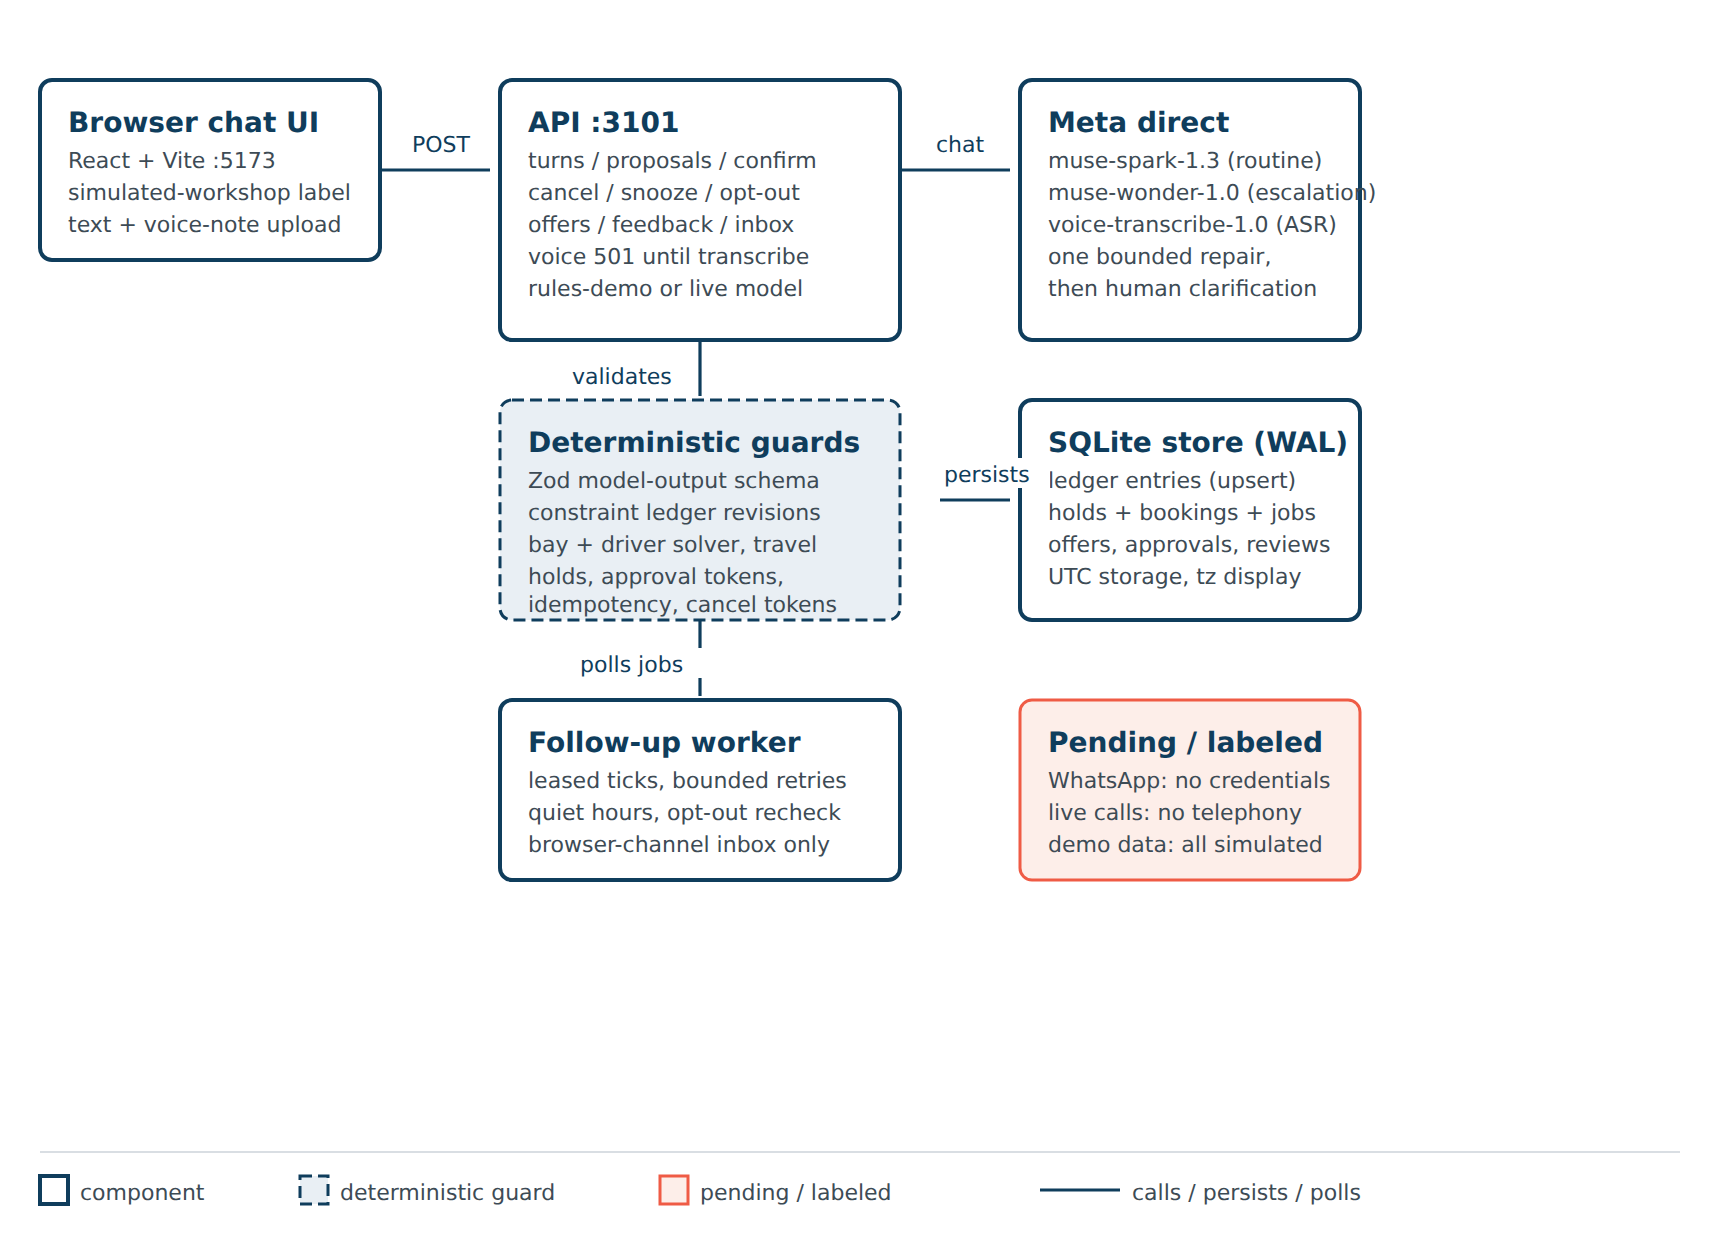
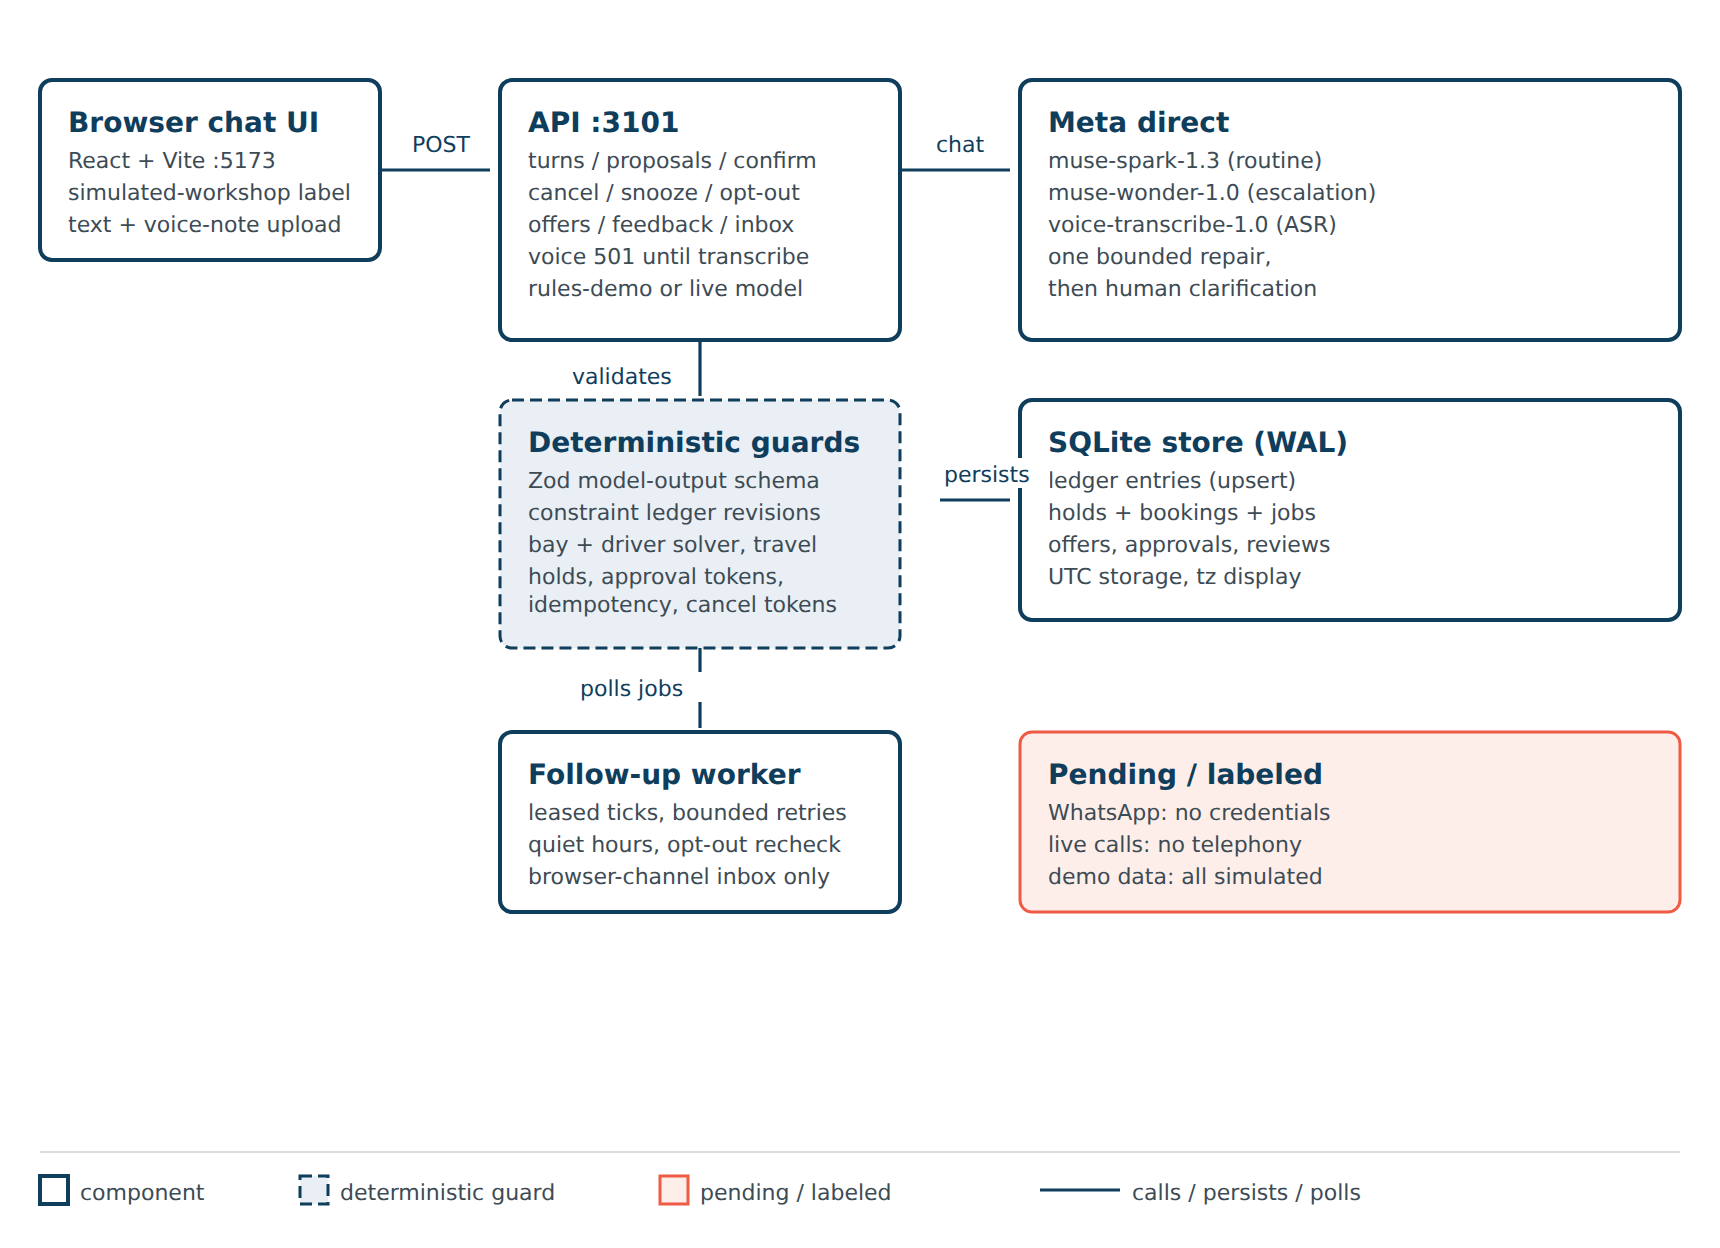
Fix clipped architecture diagram text, add demo thumbnail
Widen right-hand diagram boxes and add bottom padding in the guards
box so no label crosses a border; re-render PNG at 2x. Add a video
thumbnail in README linking to the demo MP4.

diff --git a/README.md b/README.md
@@ -7,6 +7,8 @@ Status: working demo against a simulated workshop. No real appointments, no What
 
 ![Architecture](docs/architecture.png)
 
+[![Watch the ServiceLoop demo](docs/demo-thumbnail.png)](evidence/demo-video/demo-booking.mp4)
+
 ## Run it
 
 ```bash
